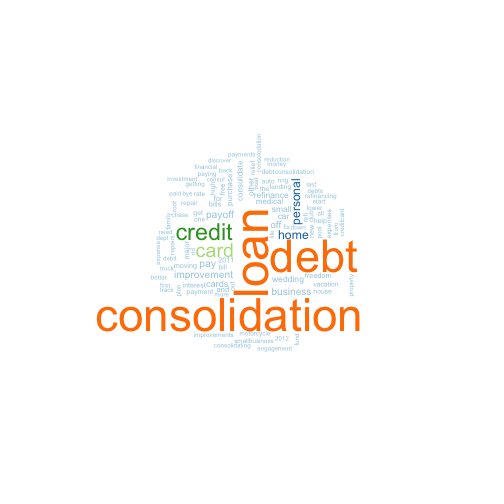
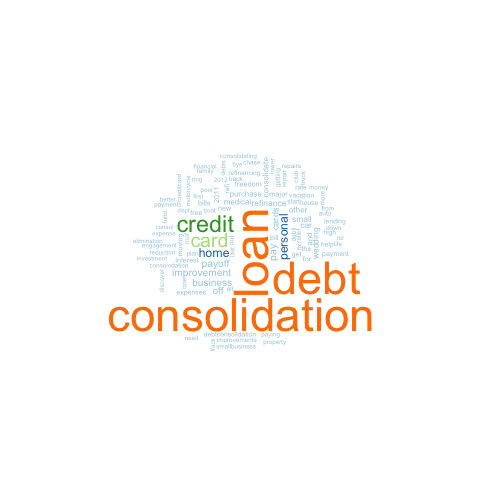
compile...just

Changed region(s): [[0.1786, 0.2679, 0.744, 0.7143]]

diff --git a/ml-credit-scoring-overview.html b/ml-credit-scoring-overview.html
@@ -175,6 +175,7 @@ loandata.names &lt;-<span class="st"> </span><span class="kw">names</span>(loan.
 </code></pre>
 <p>렌딩클럽 데이터(csv 혹은 sqlite)와 데이터 사전에 문서화된 것 사이에 차이가 남을 알 수 있다. 즉, “fico_range_high”, “fico_range_low”, “is_inc_v”, “last_fico_range_high”, “last_fico_range_low”, “verified_status_joint”, “total_rev_hi_lim” 변수는 데이터 사전에 등재되어 있지만, 실제 렌딩클럽 데이터에는 없다. 사실 이런 경우는 흔하게 발생되고 있는 문제로 나중에 심각한 문제가 될 수 있다. 즉, 이런 유산 비용이 쌓이게 되면 정말 되돌이킬 수 없는 시스템이 되어 재앙이 될 수 있다.</p>
 <h4 id="탐색적-데이터-분석">2.1. 탐색적 데이터 분석</h4>
+<p><a href="">캐글</a> 데이터를 분석하게 되면, 많은 캐글러들이 <a href="https://cran.r-project.org/web/packages/DescTools/index.html">DescTools</a> 팩키지를 사용해서 탐색적 데이터 분석을 진행한다. 범주형 데이터와 연속형 데이터, 변수간의 관계에 따라 <a href="https://cran.r-project.org/web/packages/DescTools/index.html">DescTools</a> 팩키지가 많은 부분 자동으로 처리하여 적절한 정보를 제공한다는 점에서 사용할 가치가 충분히 있다.</p>
 <div class="sourceCode"><pre class="sourceCode r"><code class="sourceCode r">##=====================================================================
 ## 03. 렌딩클럽 데이터 탐색적 데이터 분석
 ##=====================================================================
@@ -255,6 +256,8 @@ ts_amnt_grade &lt;-<span class="st"> </span><span class="kw">ggplot</span>(amnt_
 ts_amnt_grade +<span class="st"> </span><span class="kw">geom_area</span>(<span class="kw">aes</span>(<span class="dt">fill=</span>grade)) +<span class="st"> </span><span class="kw">xlab</span>(<span class="st">&quot;대출일&quot;</span>)  </code></pre></div>
 <p><img src="fig/lendingclub-eda-loan-status-3.png" title="plot of chunk lendingclub-eda-loan-status" alt="plot of chunk lendingclub-eda-loan-status" style="display: block; margin: auto;" /></p>
 <h4 id="지리정보-분석">2.2. 지리정보 분석</h4>
+<p>상대적으로 미국이 데이터 과학에 선진국이 된 이유는 여러가지가 있을 수 있지만, 인프라가 참 잘 갖춰져있다는 점이다. 우편번호 <code>zipcode</code> 팩키지가 있어 R에서 대한민국은 아니지만, 미국에서는 편리하게 우편번호를 지리정보와 붙여 데이터를 분석하는데 장점을 갖고 있다.</p>
+<p>주별 대출금과 대출횟수를 정량화하는데 <code>state_choropleth</code> 함수를 사용해야 한다. 지리정보가 잘 매칭이 되려면 <code>choroplethr</code> 팩키지에 <code>region</code> 즉, 주명칭을 일치시켜야 한다. 이를 위해 2자리 주명칭 축약어를 <code>choroplethr</code> 팩키지에 <code>region</code>에 매칭하는데 있어, <code>state.regions</code> 데이터셋의 정보를 활용한다.</p>
 <div class="sourceCode"><pre class="sourceCode r"><code class="sourceCode r"><span class="co"># install.packages(&quot;RCurl&quot;)</span>
 <span class="co"># install.packages(&quot;choroplethrMaps&quot;)</span>
 <span class="co"># install.packages(&quot;choroplethr&quot;)</span>
@@ -294,6 +297,7 @@ state_region_by_volume &lt;-<span class="st"> </span><span class="kw">left_join<
 <span class="kw">state_choropleth</span>(state_region_by_volume, <span class="dt">title =</span> <span class="st">&quot;주별 대출건수&quot;</span>)</code></pre></div>
 <p><img src="fig/lendingclub-geo-2.png" title="plot of chunk lendingclub-geo" alt="plot of chunk lendingclub-geo" style="display: block; margin: auto;" /></p>
 <h4 id="대출-목적과-단어-구름">2.3. 대출 목적과 단어 구름</h4>
+<p>대출목적을 단어구름(Word Cloud)을 사용해서 시각화를 하는 것도 한 방법일 수 있다. 이를 위해 <code>wordcloud</code> 팩키지를 불러오고, 대출목적을 텍스트로 갖춘 변수를 입력변수로 넣어 코퍼스 분석을 통해 <code>wordcloud</code> 함수에 넣어 시각화한다.</p>
 <div class="sourceCode"><pre class="sourceCode r"><code class="sourceCode r">##=====================================================================
 ## 05. 렌딩클럽 대출 목적와 단어구름
 ##=====================================================================
@@ -340,6 +344,7 @@ loan_descriptions.corpus &lt;-<span class="st"> </span><span class="kw">tm_map</
           <span class="dt">colors=</span><span class="kw">brewer.pal</span>(<span class="dv">8</span>, <span class="st">&quot;Paired&quot;</span>))</code></pre></div>
 <p><img src="fig/lendingclub-purpose-wordcloud-2.png" title="plot of chunk lendingclub-purpose-wordcloud" alt="plot of chunk lendingclub-purpose-wordcloud" style="display: block; margin: auto;" /></p>
 <h4 id="대출-등급과-이자율">2.4. 대출 등급과 이자율</h4>
+<p>단변량 탐색적 데이터 분석이 어느 정도 마무리 되었다면, 이자율과 신용등급, 채무불이행과 이자율 등등 두변량 혹은 다변량 분석을 탐색적으로 진행하는 것도 준비한다.</p>
 <div class="sourceCode"><pre class="sourceCode r"><code class="sourceCode r">##=====================================================================
 ## 06. 대출 등급과 이자율
 ##=====================================================================

diff --git a/ml-credit-scoring-overview.md b/ml-credit-scoring-overview.md
@@ -231,6 +231,10 @@ setdiff(dd.names, loandata.names)
 
 #### 2.1. 탐색적 데이터 분석
 
+[캐글]() 데이터를 분석하게 되면, 많은 캐글러들이 [DescTools](https://cran.r-project.org/web/packages/DescTools/index.html) 팩키지를 사용해서 
+탐색적 데이터 분석을 진행한다. 범주형 데이터와 연속형 데이터, 변수간의 관계에 따라 [DescTools](https://cran.r-project.org/web/packages/DescTools/index.html)
+팩키지가 많은 부분 자동으로 처리하여 적절한 정보를 제공한다는 점에서 사용할 가치가 충분히 있다.
+
 
 ~~~{.r}
 ##=====================================================================
@@ -347,8 +351,16 @@ ts_amnt_grade + geom_area(aes(fill=grade)) + xlab("대출일")
 
 <img src="fig/lendingclub-eda-loan-status-3.png" title="plot of chunk lendingclub-eda-loan-status" alt="plot of chunk lendingclub-eda-loan-status" style="display: block; margin: auto;" />
 
-
 #### 2.2. 지리정보 분석
+
+상대적으로 미국이 데이터 과학에 선진국이 된 이유는 여러가지가 있을 수 있지만, 
+인프라가 참 잘 갖춰져있다는 점이다. 우편번호 `zipcode` 팩키지가 있어 R에서 대한민국은 아니지만,
+미국에서는 편리하게 우편번호를 지리정보와 붙여 데이터를 분석하는데 장점을 갖고 있다.
+
+주별 대출금과 대출횟수를 정량화하는데 `state_choropleth` 함수를 사용해야 한다.
+지리정보가 잘 매칭이 되려면 `choroplethr` 팩키지에 `region` 즉, 주명칭을 일치시켜야 한다.
+이를 위해 2자리 주명칭 축약어를 `choroplethr` 팩키지에 `region`에 매칭하는데 있어,
+`state.regions` 데이터셋의 정보를 활용한다. 
 
 
 ~~~{.r}
@@ -399,6 +411,9 @@ state_choropleth(state_region_by_volume, title = "주별 대출건수")
 
 
 #### 2.3. 대출 목적과 단어 구름
+
+대출목적을 단어구름(Word Cloud)을 사용해서 시각화를 하는 것도 한 방법일 수 있다.
+이를 위해 `wordcloud` 팩키지를 불러오고, 대출목적을 텍스트로 갖춘 변수를 입력변수로 넣어 코퍼스 분석을 통해 `wordcloud` 함수에 넣어 시각화한다.
 
 
 ~~~{.r}
@@ -460,6 +475,9 @@ wordcloud(loan_descriptions.corpus,
 <img src="fig/lendingclub-purpose-wordcloud-2.png" title="plot of chunk lendingclub-purpose-wordcloud" alt="plot of chunk lendingclub-purpose-wordcloud" style="display: block; margin: auto;" />
 
 #### 2.4. 대출 등급과 이자율
+
+단변량 탐색적 데이터 분석이 어느 정도 마무리 되었다면, 이자율과 신용등급, 채무불이행과 이자율 등등 
+두변량 혹은 다변량 분석을 탐색적으로 진행하는 것도 준비한다.
 
 
 ~~~{.r}
